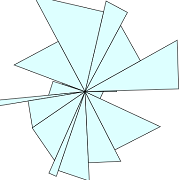
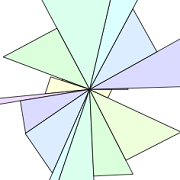
カラフルオプション追加

diff --git a/js/main.js b/js/main.js
@@ -39,6 +39,7 @@
 
   const options = {
     omit: undefined,
+    colorful: undefined,
   };
 
   window.addEventListener('load', init, false);
@@ -142,6 +143,29 @@
     elems.result.innerHTML = ''; // 描画済みの結果を消去します。
   }
 
+  const colors = [
+    '#eddbff',
+    '#dbdbff',
+    '#dbedff',
+    '#dbffff',
+    '#dbffed',
+    '#dbffdb',
+    '#edffdb',
+    '#ffffdb',
+    '#eddbff',
+    '#dbdbff',
+    '#dbedff',
+    '#dbffff',
+    '#dbffed',
+    '#dbffdb',
+    '#edffdb',
+    '#ffffdb',
+  ];
+
+  function getFixedColor(i) {
+    return options.colorful ? colors[i] : '#dff';
+  }
+
   async function draw(fractions, pid) {
     resetMainSvg();
     while (pid == processId && !isPlaying) await sleep(50);
@@ -151,7 +175,9 @@
 
     let radian = 0;
     elems.svg.appendChild(elems.result);
+    let idx = -1;
     for (const fraction of fractions) {
+      idx++;
       if (pid != processId) return;
       const g = createG();
       elems.result.appendChild(g);
@@ -206,8 +232,9 @@
 
         g.innerHTML = ''; // 描いた図形を消去。
         g.appendChild(polygon);
-        polygon.setAttribute('fill', '#dff');
-        if (pid == processId) elemFraction.setAttribute('fill', '#dff');
+        const fixedColor = getFixedColor(idx);
+        polygon.setAttribute('fill', fixedColor);
+        if (pid == processId) elemFraction.setAttribute('fill', fixedColor);
       } else {
         // 横線（分母）に注目
         if (pid == processId) highlightTextSvgElem(elemDenom);
@@ -249,6 +276,7 @@
 
         g.innerHTML = ''; // 描いた図形を消去。
 
+        let fixedColor;
         // 三角形を回転
         {
           const num = Math.floor(intervalTime / 30) + 1;
@@ -264,9 +292,10 @@
             if (pid == processId) await sleep(intervalTime / num);
             while (pid == processId && !isPlaying) await sleep(50);
           }
-          polygon.setAttribute('fill', '#dff');
+          fixedColor = getFixedColor(idx);
+          polygon.setAttribute('fill', fixedColor);
         }
-        if (pid == processId) elemFraction.setAttribute('fill', '#dff');
+        if (pid == processId) elemFraction.setAttribute('fill', fixedColor);
       }
       radian += atan;
     }

diff --git a/index.html b/index.html
@@ -72,6 +72,7 @@
   </div>
   <div style="font-size: 30px;">
     <input type="checkbox" id="options-omit" style="width: 30px; height: 30px;"> <label for="options-omit">回転省略</label><br>
+    <input type="checkbox" id="options-colorful" style="width: 30px; height: 30px;"> <label for="options-colorful">カラフル</label><br>
   </div>
 
   <h1>これは何？</h1>
